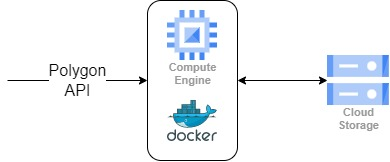
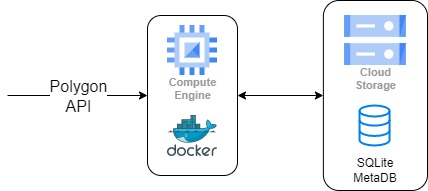
update stock-analysis post

diff --git a/pages/_app.js b/pages/_app.js
@@ -5,7 +5,8 @@ import Footer from '/components/Footer'
 import Prism from 'prismjs'
 import "../styles/prism-one-dark.css"
 import 'prismjs/components/prism-python'
-import 'prismjs/components/prism-docker';
+import 'prismjs/components/prism-docker'
+import 'prismjs/components/prism-bash'
 
 export default function App({ Component, pageProps }) {
   return  <>

diff --git a/styles/globals.css b/styles/globals.css
@@ -203,8 +203,12 @@ ol {
   background: #f4f4f4;
   padding: 20px;
   margin: 20px 0;
-  line-height: 2.3;
+  line-height: 1.3;
 }
+
+/* .post-body code {
+  font-size:medium;
+} */
 
 @media (max-width: 900px) {
   .posts {

diff --git a/posts/stock-analysis.md b/posts/stock-analysis.md
@@ -14,11 +14,11 @@ _**This post is still being updated**_
 ## Overview <a name="overview"></a>
 I thought it would be fun to create my own end-to-end cloud-based application to gather and analyze stock data. To do this, I used a Google Cloud Platform account for hosting and free tier [Polygon API](https://polygon.io/) for data gathering. Here is a simple workflow diagram
 
-![post2](/images/posts/stock-analysis/stock-project-overview.jpg "Overview Diagram")
+![post2-1](/images/posts/stock-analysis/stock-project-overview.jpg "Overview Diagram")
 
 The application code is deployed to a Compute Engine instance where it is run inside a [Docker](https://www.docker.com/) container. The instance is configured to run the container application daily. The application makes Polygon API calls, saves raw data to a cloud storage bucket, and inserts ETL-processed data to a SQLite metadatabase stored in the same storage bucket.
 
-*Note: I use the processed data to run time series stock price predictions (expand later).*
+*Note: I use the processed data to run time series stock price predictions (to expanded at a later update).*
 
 
 ## Setup <a name="setup"></a>
@@ -30,6 +30,68 @@ From the [documentation](https://polygon.io/docs/stocks), there is a quite a var
 To get the most out of a single API call, I decided to use [Grouped Daily](https://polygon.io/docs/stocks/get_v2_aggs_grouped_locale_us_market_stocks__date) calls to obtain the OHLC (open, high, low, and close) for the entire stocks/equities markets.
 
 ### Cloud Components Setup
-_to be expanded_
+#### Compute Engine
+I prefer my compute instance to be as small as possible, so I went with the e2-micro (2vCPU, 1Gb Memory, 10Gb VM storage) with a Debian image. In hindsight, it may have been a better idea to go with a Container-Optimized OS image since it would have Docker pre-installed.
 
+I went through a couple of iterations when deploying the application. It was originally simply deployed with a codebase where my scripts were triggered by a cronjob. But since that made it difficult for local testing and migration, I decided to dockerize it. One can follow these [instructions](https://docs.docker.com/engine/install/debian/) to install Docker on the instance.
+
+#### Storage bucket
+I use a cloud storage bucket to store the raw API JSON response as well as a SQLite metadatabase.
+
+#### Codebase
+To keep things in the same ecosystem, I kept the code on GCP Source Repositories, which can then be pulled to the compute instance as well as my desktop for local development. Below is the structure of the code base.
+```
+├── src
+│   ├── sql_scripts
+│   │   ├── *.sql
+│   ├── *.py
+├── shell_scripts
+│   ├── run.sh
+├── .env
+├── Dockerfile
+├── requirements.txt
+└── .gitignore
+```
+Note that the `.env` file is not committed to the repository.
+
+## Workflow
+### Docker container
+Once the code is pulled to the instance, I simply create a `.env` file, build the Docker image, and create a Docker container. 
+
+The content of the Dockerfile is as follows:
+```dockerfile
+FROM google/cloud-sdk:slim
+WORKDIR /stockapp
+COPY .env requirements.txt ./
+ADD /src ./src
+ADD /shell_scripts ./shell_scripts
+
+RUN mkdir -p ./data ./data/ticker_json ./data/grouped_daily_json
+RUN pip3 install -r requirements.txt
+RUN pip3 install torch --index-url https://download.pytorch.org/whl/cpu
+RUN chmod +x ./shell_scripts/*.sh
+
+CMD ["./shell_scripts/run.sh"]
+```
+
+The container would run the `run.sh` executable at every daily cronjob run. The content of this script is as follows.
+```sh
+#!/bin/sh
+echo $(date +"Container run started at: %c")
+python3 /stockapp/src/get_grouped_daily.py
+gsutil -m cp -r -n /stockapp/data/grouped_daily_json gs://stock-data-project-khoa
+gsutil cp gs://stock-data-project-khoa/stock.db /stockapp/data/stock.db
+python3 /stockapp/src/etl_grouped_daily.py
+gsutil cp /stockapp/data/stock.db gs://stock-data-project-khoa
+rm /stockapp/data/grouped_daily_json/*
+rm /stockapp/data/stock.db
+echo $(date +"Container run ended at: %c")
+```
+
+### ETL Process
+The `get_grouped_daily.py` script makes the API call, and saves JSON response to the storage bucket. The `etl_grouped_daily.py` script loads the JSON response, does some light processing, and insert the data into the SQLite metadatabase file.
+
+![](/images/posts/stock-analysis/db-browser.png "DB Sample")
+
+The data is inserted into the `daily` table. As we can see, each line contains the OHLC prices of a particular ticker in a particular day. 
 
